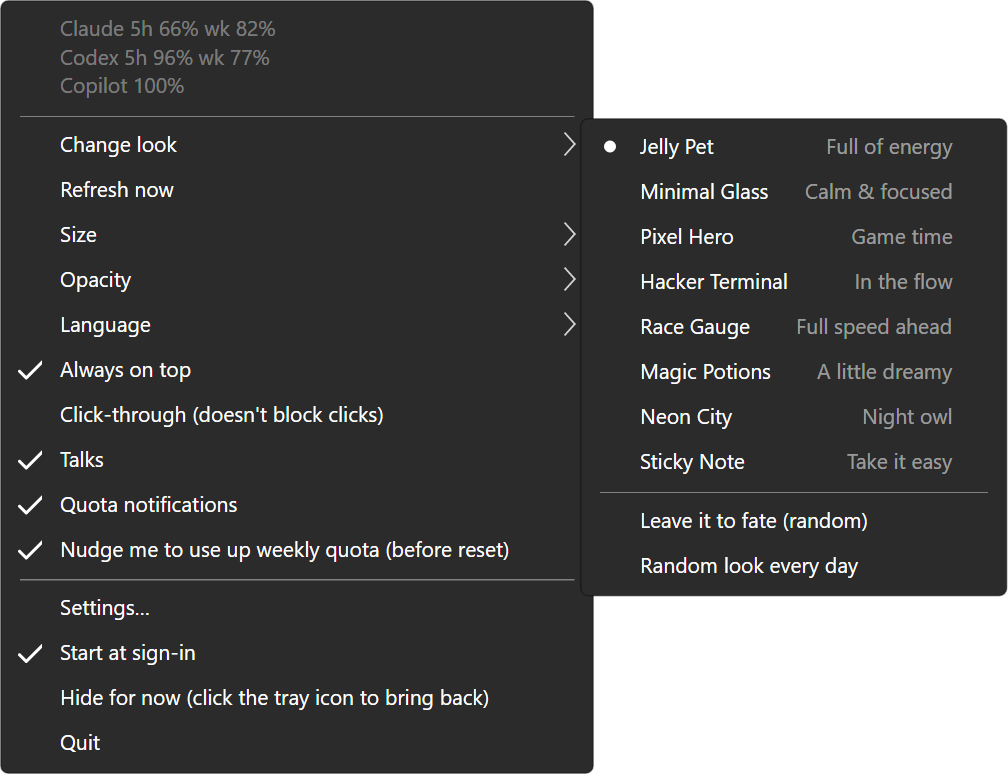
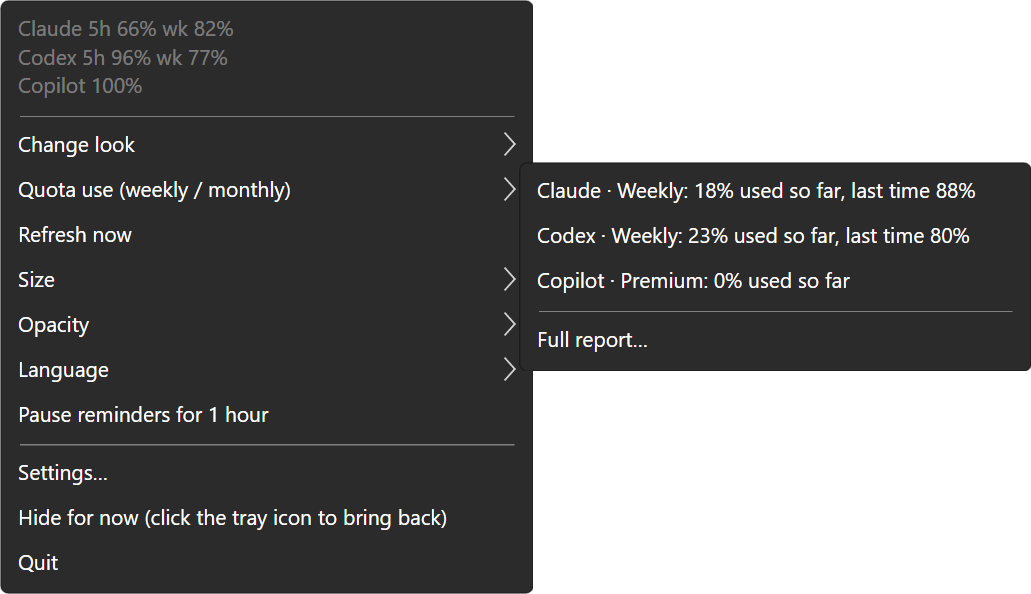
Menu: quota use (weekly / monthly) instead of the rarely changed switches
The user's feedback: the ticked switches (always on top, click-through, talking, quota notifications,
"use it" nudges, start at sign-in) are rarely changed, so they are on the settings page only (the tray
menu keeps click-through, the way back). Below "Change look" a "Quota use (weekly / monthly)" submenu
shows each weekly/monthly quota: used so far in this window and how the last one ended, and "Full
report…" opens the settings page scrolled to the bars. Self-test +3; README pictures and texts updated.

Changed region(s): [[0.0, 0.0, 1.0, 1.0], [0.0, 0.9394, 0.0923, 0.9697]]

diff --git a/xplat/SentriPet.Desktop/DesktopController.cs b/xplat/SentriPet.Desktop/DesktopController.cs
@@ -438,6 +438,7 @@ namespace SentriPet
             var c = new DesktopController(null, null);
             c.Settings = settings;
             c.views = sample;
+            c.History = MockData.History();
             return c;
         }
 
@@ -496,6 +497,7 @@ namespace SentriPet
             }));
             themes.ItemsSource = themeItems;
             items.Add(themes);
+            items.Add(ReportMenu());
             items.Add(Item(L.T("立即更新"), () => { Service.RefreshNow(null); if (views.Count > 0) window.Say(views[0].Id, L.T("更新中…")); }));
 
             var size = new MenuItem { Header = L.T("大小") };
@@ -538,18 +540,8 @@ namespace SentriPet
             foreach (var li in L.Languages) langs.Add(LanguageItem(li.Code, li.Native));
             lang.ItemsSource = langs;
             items.Add(lang);
-            items.Add(Toggle(L.T("永遠在最上層"), Settings.AlwaysOnTop, () => { Settings.AlwaysOnTop = !Settings.AlwaysOnTop; window.ApplySettings(); Settings.Save(); }));
-            if (Integration.CanClickThrough)
-                items.Add(Toggle(L.T("滑鼠穿透（不擋點擊）"), Settings.ClickThrough, () =>
-                {
-                    Settings.ClickThrough = !Settings.ClickThrough;
-                    ApplyWidgetSettings();
-                    if (tray != null) tray.Menu = BuildTrayMenu();
-                    if (Settings.ClickThrough && Settings.Notifications) Integration.Notify(AppInfo.Name, L.T("已開啟滑鼠穿透：桌寵不會擋住點擊。要關閉請在右下角系統匣圖示按右鍵。"));
-                }));
-            items.Add(Toggle(L.T("會說話"), Settings.Chatty, () => { Settings.Chatty = !Settings.Chatty; Settings.Save(); }));
-            items.Add(Toggle(L.T("額度提醒通知"), Settings.Notifications, () => { Settings.Notifications = !Settings.Notifications; Settings.Save(); }));
-            items.Add(Toggle(L.T("催我用完週額度（重置前提醒）"), Settings.UseItReminder, () => { Settings.UseItReminder = !Settings.UseItReminder; Settings.Save(); RefreshViews(); }));
+            // (the switches that are rarely changed — on top, click-through, talking, notifications, "use it",
+            // autostart — are on the settings page only; the tray menu keeps click-through, the way back)
             var now = DateTime.UtcNow;
             if (Quiet.Paused(Settings, now))
                 items.Add(Item(L.F("恢復提醒（暫停到 {0}）", Settings.PausedUntil.Value.ToLocalTime().ToString("HH:mm")), () =>
@@ -574,10 +566,37 @@ namespace SentriPet
             }
             items.Add(new Separator());
             items.Add(Item(L.T("設定…"), OpenSettings));
-            items.Add(Toggle(L.T("開機自動啟動"), Settings.AutoStart, () => { Settings.AutoStart = !Settings.AutoStart; Integration.SetAutostart(Settings.AutoStart); Settings.Save(); }));
             items.Add(Item(L.T("先藏起來（點系統匣叫回）"), ToggleWidget));
             items.Add(Item(L.T("結束"), Quit));
             return items;
+        }
+
+        /// <summary>The weekly/monthly quotas: how much of this window is used so far and how the last one ended (#16), and the full report.</summary>
+        MenuItem ReportMenu()
+        {
+            var menu = new MenuItem { Header = L.T("額度利用率（週報／月報）") };
+            var list = new List<object>();
+            var results = History != null ? History.Results : new List<WindowResult>();
+            foreach (var v in views)
+                foreach (var m in v.Meters.Where(x => !x.Unlimited && x.WindowMinutes >= UsageHistory.ReportWindowMinutes))
+                {
+                    var last = results.LastOrDefault(r => r.Provider == v.Id && r.Meter == m.Key);
+                    list.Add(Item(last != null
+                        ? L.F("{0} · {1}：這期用了 {2}，上期 {3}", v.Name, m.Label, Fmt.Pct(m.Used), Fmt.Pct(last.Used))
+                        : L.F("{0} · {1}：這期用了 {2}", v.Name, m.Label, Fmt.Pct(m.Used)), OpenReport));
+                }
+            if (list.Count == 0) list.Add(new MenuItem { Header = L.T("目前沒有每週或每月的額度"), IsEnabled = false });
+            list.Add(new Separator());
+            list.Add(Item(L.T("查看完整報告…"), OpenReport));
+            menu.ItemsSource = list;
+            return menu;
+        }
+
+        /// <summary>The settings page, scrolled to the quota-use report.</summary>
+        public void OpenReport()
+        {
+            OpenSettings();
+            settingsWindow.ShowReport();
         }
 
         static MenuItem Item(string header, Action click)

diff --git a/xplat/SentriPet.Desktop/SettingsWindow.cs b/xplat/SentriPet.Desktop/SettingsWindow.cs
@@ -49,6 +49,8 @@ namespace SentriPet
         readonly DispatcherTimer refresh, saveTimer;
         ToggleSwitch randomToggle;
         string providerSig;
+        ScrollViewer scroller;
+        Control reportAnchor;
 
         AppSettings S { get { return ctl.Settings; } }
 
@@ -79,7 +81,7 @@ namespace SentriPet
             BuildReport(root);
             BuildGeneral(root);
             Page = root;
-            Content = new ScrollViewer { Content = root, HorizontalScrollBarVisibility = Avalonia.Controls.Primitives.ScrollBarVisibility.Disabled };
+            Content = scroller = new ScrollViewer { Content = root, HorizontalScrollBarVisibility = Avalonia.Controls.Primitives.ScrollBarVisibility.Disabled };
 
             saveTimer = new DispatcherTimer { Interval = TimeSpan.FromMilliseconds(600) };
             saveTimer.Tick += (s, e) => { saveTimer.Stop(); S.Save(); };
@@ -88,6 +90,16 @@ namespace SentriPet
             refresh.Start();
             Closed += (s, e) => { refresh.Stop(); if (saveTimer.IsEnabled) { saveTimer.Stop(); S.Save(); } };
             Opened += (s, e) => Dispatcher.UIThread.Post(RenderPreviews, DispatcherPriority.Background);
+        }
+
+        /// <summary>Scrolls to the quota-use report (the widget's menu opens it there).</summary>
+        public void ShowReport()
+        {
+            Dispatcher.UIThread.Post(() =>
+            {
+                var p = reportAnchor != null && Page != null ? reportAnchor.TranslatePoint(new Point(0, 0), Page) : null;
+                if (p.HasValue) scroller.Offset = new Vector(0, Math.Max(0, p.Value.Y - 12));
+            }, DispatcherPriority.Background);
         }
 
         void SaveSoon()
@@ -511,7 +523,9 @@ namespace SentriPet
         /// <summary>How much of each weekly/monthly window was used (#16): the last 8 windows as bars, and the average.</summary>
         void BuildReport(StackPanel root)
         {
+            int at = root.Children.Count;
             var body = Section(root, L.T("額度利用率"), L.T("每週／每月額度重置時，記下那一期用掉多少，看看有沒有浪費"));
+            reportAnchor = root.Children[at];
             var results = ctl.History != null ? ctl.History.Results : new List<WindowResult>();
             if (results.Count == 0)
                 Row(body, L.T("還沒有紀錄"), L.T("每週額度重置一次之後，這裡就會出現那一週用掉多少"), null);

diff --git a/xplat/SentriPet.Desktop/DesktopTests.cs b/xplat/SentriPet.Desktop/DesktopTests.cs
@@ -412,6 +412,17 @@ namespace SentriPet
                 t.Equal("換造型：目前的造型打勾", 1, radios.Count(m => m.IsChecked));
                 t.Check("換造型：隨機與每天隨機換都在同一個選單", looks.OfType<MenuItem>().Any(m => Equals(m.Header, L.T("交給命運吧（隨機）"))) &&
                                                                looks.OfType<MenuItem>().Any(m => Equals(m.Header, L.T("每天隨機換一個"))));
+                // the switches that are rarely changed are on the settings page only (the user's request)
+                var rare = new[] { L.T("永遠在最上層"), L.T("滑鼠穿透（不擋點擊）"), L.T("會說話"), L.T("額度提醒通知"), L.T("催我用完週額度（重置前提醒）"), L.T("開機自動啟動") };
+                t.Check("右鍵選單：不常用的開關只放在設定頁", !items.OfType<MenuItem>().Any(m => rare.Contains(m.Header as string)),
+                    string.Join(", ", items.OfType<MenuItem>().Where(m => rare.Contains(m.Header as string)).Select(m => m.Header)));
+                var report = subs.FirstOrDefault(m => Equals(m.Header, L.T("額度利用率（週報／月報）")));
+                t.Check("右鍵選單：額度利用率緊接在換造型後面", report != null && items.IndexOf(report) == items.IndexOf(subs.First(m => Equals(m.Header, L.T("換造型")))) + 1);
+                var lines = report != null ? ((IEnumerable<object>)report.ItemsSource).OfType<MenuItem>().Select(m => m.Header as string).ToList() : new List<string>();
+                t.Check("額度利用率：每個週額度一行（這期與上期）、最後是完整報告",
+                    lines.Count(l => l != null && l.StartsWith("Claude · ")) == 1 && lines.Any(l => l != null && l.StartsWith("Codex · ")) &&
+                    lines.First(l => l != null && l.StartsWith("Claude · ")).Contains(Fmt.Pct(88)) && lines.Last() == L.T("查看完整報告…"),
+                    string.Join(" | ", lines));
             });
             Progress = "settings page";
             t.Run("settings", () =>

diff --git a/xplat/SentriPet.Desktop/Snapshots.cs b/xplat/SentriPet.Desktop/Snapshots.cs
@@ -147,6 +147,8 @@ namespace SentriPet
                     RenderMenu(ctl.BuildMenuItems(), Path.Combine(outDir, "menu.png"), scale);
                     var looks = ctl.BuildMenuItems().OfType<MenuItem>().First(m => Equals(m.Header, L.T("換造型")));
                     RenderMenu(((IEnumerable<object>)looks.ItemsSource).ToList(), Path.Combine(outDir, "menu_themes.png"), scale);
+                    var report = ctl.BuildMenuItems().OfType<MenuItem>().First(m => Equals(m.Header, L.T("額度利用率（週報／月報）")));
+                    RenderMenu(((IEnumerable<object>)report.ItemsSource).ToList(), Path.Combine(outDir, "menu_report.png"), scale);
                 }
                 catch (Exception ex)
                 {

diff --git a/packaging/update-manifests.py b/packaging/update-manifests.py
@@ -62,7 +62,7 @@ def scoop(version, sha):
         # Start menu shortcut (needed for its notifications) the first time it runs
         'post_install': ['Start-Process "$dir\\SentriPet.exe"'],
         'notes': [
-            'SentriPet is running: it adds itself to the Start menu and starts when you sign in (turn that off in its right-click menu).',
+            'SentriPet is running: it adds itself to the Start menu and starts when you sign in (turn that off in its settings).',
             'Quit it (right-click > Quit) before "scoop update sentripet" or "scoop uninstall sentripet".',
         ],
         'checkver': 'github',

diff --git a/README.md b/README.md
@@ -45,7 +45,7 @@ Runs on **Windows, macOS and Linux**.
 **Right-click menu and settings** (double-click the pet to open the settings)
 
 <p align="center">
-  <img src="docs/images/en/menu.png" alt="Right-click menu with the looks submenu" width="470">
+  <img src="docs/images/en/menu.png" alt="Right-click menu with the quota-use submenu" width="470">
   <img src="docs/images/en/settings.png" alt="Settings page" width="350">
 </p>
 
@@ -92,7 +92,7 @@ Each package contains everything it needs; you don't have to install .NET.
 1. Unzip `SentriPet-<version>-win-x64.zip` into a folder you keep (e.g. `%LOCALAPPDATA%\Programs\SentriPet`).
 2. Run `SentriPet.exe`. If Windows says *Windows protected your PC*, click *More info* → *Run anyway* (the program is not code-signed).
 3. The pet appears in the bottom-right corner, with a jelly icon in the system tray. SentriPet adds itself to the
-   Start menu and starts when you sign in (you can turn that off in its right-click menu).
+   Start menu and starts when you sign in (you can turn that off in *Settings → General*).
 
 **From source** (needs the [.NET 10 SDK](https://dotnet.microsoft.com/download)): `git clone` this repository and run
 `install.cmd`; it builds SentriPet, installs it to `%LOCALAPPDATA%\Programs\SentriPet` and starts it (`uninstall.cmd` removes it).
@@ -127,7 +127,7 @@ cd SentriPet-<version>-linux-x64
 
 - **Update**: `scoop update sentripet` / `brew upgrade --cask sentripet` (quit SentriPet first: right-click → Quit).
   A downloaded copy: replace the files with the new version (on Linux, run `install.sh` again). Your settings are kept.
-- **Uninstall**: turn off *Start at sign-in* in the right-click menu → *Quit*, then `scoop uninstall sentripet` /
+- **Uninstall**: turn off *Start at sign-in* in *Settings → General*, right-click the pet → *Quit*, then `scoop uninstall sentripet` /
   `brew uninstall --cask sentripet`, or delete the program and its settings folder (see [File locations](#file-locations)).
 
 ## Using SentriPet
@@ -151,7 +151,7 @@ SentriPet looks for AI tools on your computer and every one it finds becomes a p
 | Drag | Move it (snaps to screen edges); the position is remembered |
 | Click | The pet answers |
 | Hover | Details: every quota, reset times, data source |
-| Right-click | Menu: change look (each look with its mood, or leave it to fate), language, size, opacity, move to screen, click-through… |
+| Right-click | Menu: change look (each look with its mood, or leave it to fate), quota use this week/month and last time (with the full report), size, opacity, move to screen, language, pause reminders. The switches you rarely change (always on top, click-through, talking, notifications, "use it" nudges, start at sign-in) are in the settings |
 | Double-click | Settings |
 | Tray / menu-bar icon | Left click shows/hides the pet; right click opens the menu (turn click-through off here). The jelly in the icon is as full as your lowest quota; a blue dot means an AI is working |
 
@@ -188,7 +188,7 @@ the widget: the bar that's about to expire blinks and the pet's face changes; th
 | Last 6 hours | 5% or more | Fast blinking, trembling, the alarm rings non-stop; about every 12 minutes |
 
 Each new level shows one notification (not repeated after a restart). The pets never interrupt while an AI is working, and
-don't nudge while the 5-hour quota is used up (you couldn't use it anyway). Turn it off in the right-click menu or in *Settings → Reminders*.
+don't nudge while the 5-hour quota is used up (you couldn't use it anyway). Turn it off in *Settings → Reminders*.
 
 ### "Done or waiting for you" (Claude Code, Codex)
 
@@ -242,7 +242,7 @@ Code status line for the official times, or type the time shown on Claude's *Set
 *Settings → AI services → Claude weekly reset time* (e.g. `Thu 23:00`).
 
 **The pet is in the way**
-Turn on *Click-through* in the right-click menu and clicks go straight through it (turn it off from the tray icon).
+Turn on *Click-through* in *Settings → Appearance* and clicks go straight through it (turn it off from the tray icon).
 You can also make it smaller or move it to another screen.
 
 **The pet disappeared in full screen**

diff --git a/docs/DEVLOG.md b/docs/DEVLOG.md
@@ -246,5 +246,8 @@ xplat/                新的跨平台版（.NET 10）
 - 2026-09-29：依使用者要求在這台電腦更新到 2.2.0 並開啟「AI 做完或在等你時提醒」（新增 `--connect-agent-hooks`，經 explorer 啟動）。
   使用者的 Codex 設定原本有 Codex 桌面版 computer use 的 `notify`（`codex-computer-use.exe turn-ended`），已記下並由 SentriPet 照樣代為執行；
   確認 config.toml 只改了 notify 那一行、Claude 的 settings.json 只多了 hooks，備份都是原檔。新增這種格式的測試（核心 480 項）。
+- 2026-09-29：**右鍵選單整理**（使用者回饋）：不常動的開關（永遠在最上層、滑鼠穿透、會說話、額度提醒通知、催我用完週額度、
+  開機自動啟動）只留在設定頁（系統匣選單仍保留滑鼠穿透，關掉它的唯一途徑）；換造型下面新增「額度利用率（週報／月報）」子選單：
+  每個週／月額度一行「這期用了 X%，上期 Y%」，以及「查看完整報告…」（打開設定頁並捲到長條圖）。自我測試 +3 項，README 截圖與說明更新。
 - 還沒做、需要實機才能確認的：Mac／Linux 實體電腦上的長時間試用（拖曳、系統匣、通知、開機啟動、滑鼠穿透、macOS 的眼睛）；
   Linux 上的 Claude 用量要開啟「連接 Claude Code 狀態列」。
